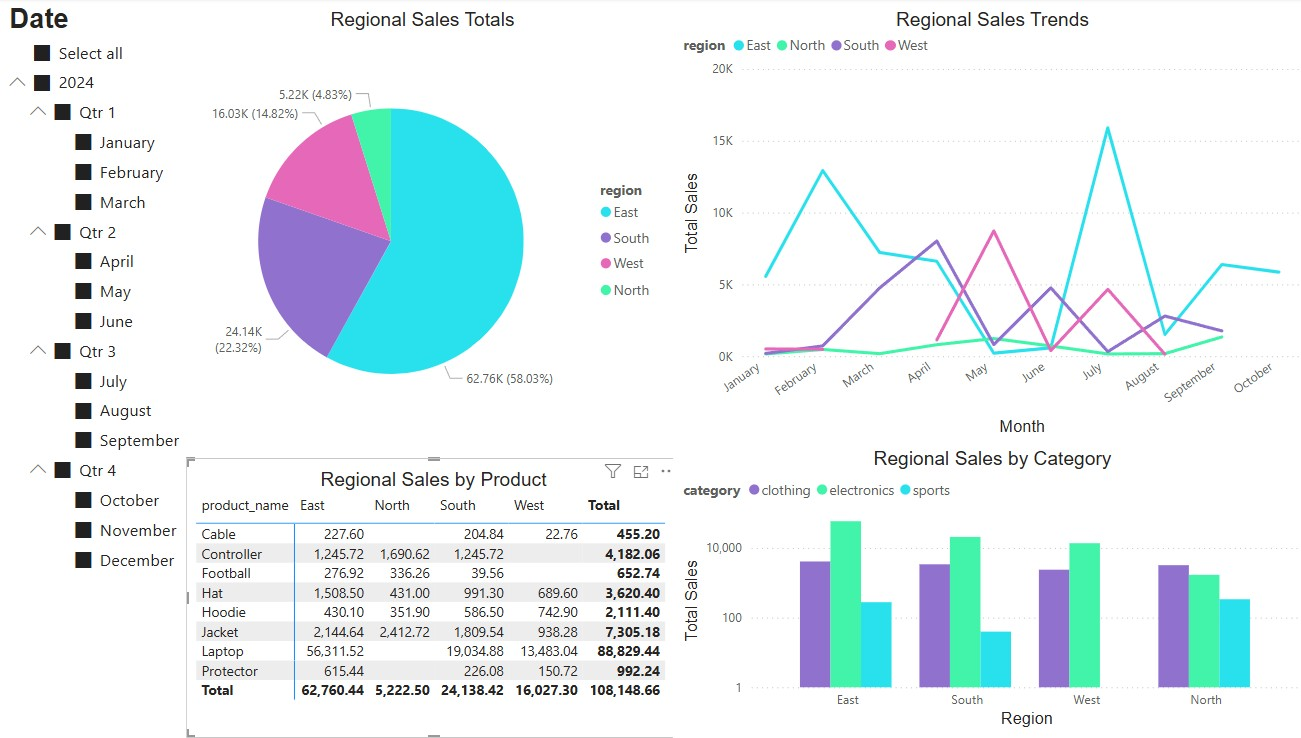
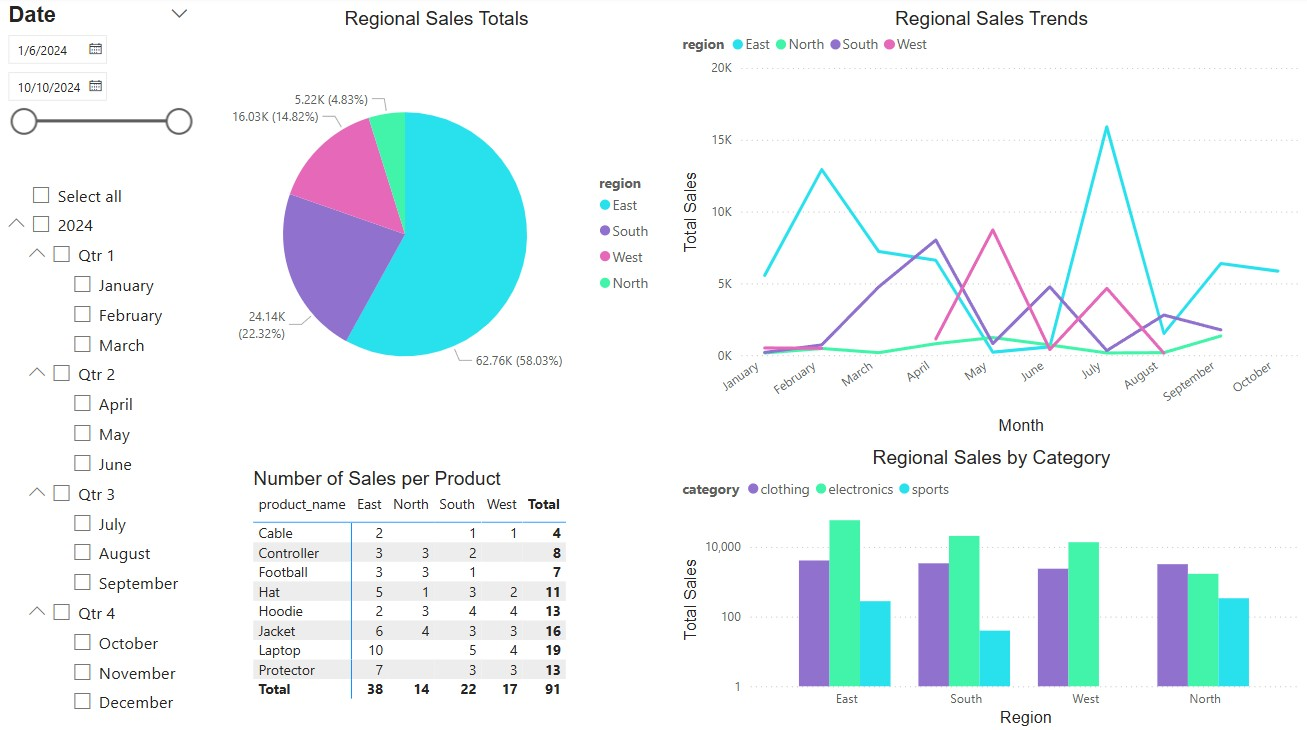
Updating README.md file.

diff --git a/README.md b/README.md
@@ -214,6 +214,8 @@ Laptops are the top-selling product, while cables consistently underperform acro
 * Bar Chart – Product Category Sales by Region  
 Electronics lead in every region except the North, where Clothing takes the top spot. Sports is the lowest-selling category in all regions.  
 ![Screenshot](screenshots/olap_dashboards.jpg)
+This screenshot shows how the visual changes when the slicer dates are adjusted.
+![Screenshot](screenshots/olap_dashboards2.jpg)
 ### 6. Suggested Business Actions  
 Based on the analysis, the East region is clearly pulling in the most sales, over 50%, so it makes sense to keep investing there. The North, on the other hand, might need some extra attention, like targeted marketing or special promotions, to help boost its performance. There’s a noticeable dip in East sales around mid-year, so some seasonal planning could help smooth that out. The South and West show similar trends, which could be a great chance to sync up inventory and campaigns between them. Laptops are top sellers and could do even better with bundles or more promotion, while cables aren’t doing so hot and might need to be rethought. Electronics are strong across the board, clothing does especially well in the North, and sports gear is lagging everywhere, so product strategies should be adjusted based on what’s working where.
 ### 7. Challenges
